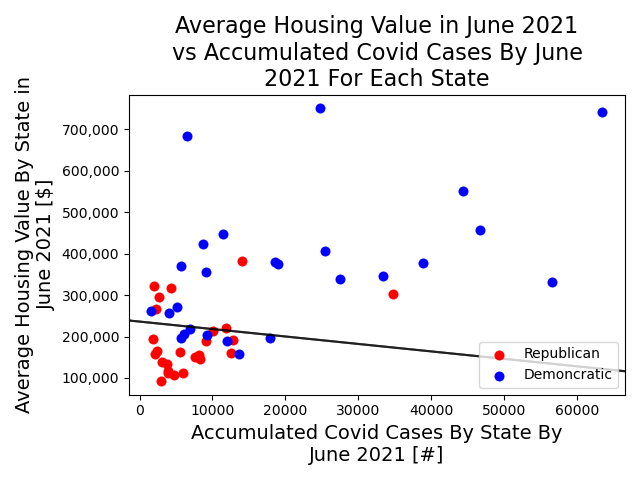
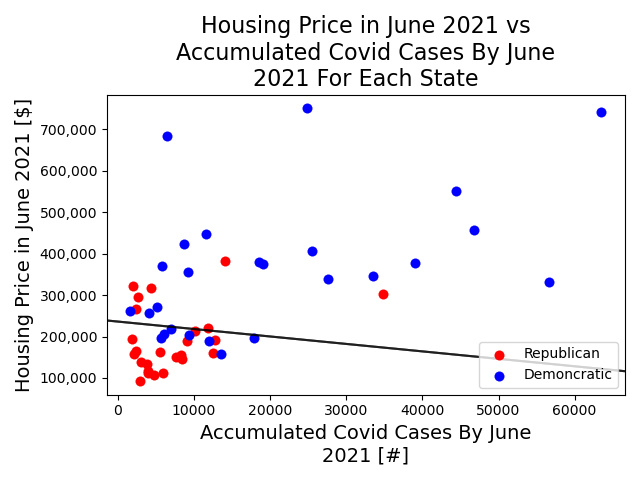
update plot

diff --git a/main.py b/main.py
@@ -100,7 +100,7 @@ def covid(df_z,df_p,df_d,df_c,df_r,df_i,df_s,df_pol):
     covid_by_state = df_c_average.iloc[:,-1:]
     house_by_state = df_z_average.iloc[:, -1:]
     house_covid = pd.concat([covid_by_state,house_by_state],axis=1)
-    house_covid.columns = ["Covid Cases","Housing Value"]
+    house_covid.columns = ["Covid Cases","Housing Price"]
 
 
     #political
@@ -119,9 +119,9 @@ def covid(df_z,df_p,df_d,df_c,df_r,df_i,df_s,df_pol):
     fig2, ax2 = plt.subplots()
     ax2.get_yaxis().set_major_formatter(
         matplotlib.ticker.FuncFormatter(lambda x, p: format(int(x), ',')))
-    ax2.set_title("\n".join(wrap("Average Housing Value in June 2021 vs Accumulated Covid Cases By June 2021 For Each State",35)), fontsize=16)
-    ax2.set_xlabel("\n".join(wrap("Accumulated Covid Cases By State By June 2021 [#]",35)), fontsize=14)
-    ax2.set_ylabel("\n".join(wrap("Average Housing Value By State in June 2021 [$]",35)), fontsize=14)
+    ax2.set_title("\n".join(wrap("Housing Price in June 2021 vs Accumulated Covid Cases By June 2021 For Each State",35)), fontsize=16)
+    ax2.set_xlabel("\n".join(wrap("Accumulated Covid Cases By June 2021 [#]",35)), fontsize=14)
+    ax2.set_ylabel("\n".join(wrap("Housing Price in June 2021 [$]",35)), fontsize=14)
     #no label
     #house_covid_pol.plot.scatter(x="Covid Cases", y="Housing Value", s=50, linewidth=0.1)
     #label method1
@@ -142,10 +142,10 @@ def covid(df_z,df_p,df_d,df_c,df_r,df_i,df_s,df_pol):
     cs = ["r","b"]
     for i,p in enumerate(political):
         data = house_covid_pol[house_covid_pol["political status"]==p]
-        ax2.scatter(x=data["Covid Cases"],y=data["Housing Value"],label=p, s=50, linewidth=0.1,c=cs[i])
+        ax2.scatter(x=data["Covid Cases"],y=data["Housing Price"],label=p, s=50, linewidth=0.1,c=cs[i])
     #fitting
     clf = svm.SVC(kernel='linear', C=1000)
-    x= house_covid_pol[["Covid Cases","Housing Value"]].to_numpy()
+    x= house_covid_pol[["Covid Cases","Housing Price"]].to_numpy()
     y = np.expand_dims(house_covid_pol["political status"].to_numpy(),axis=1)
     clf.fit(x, y)
     # plot the decision function
